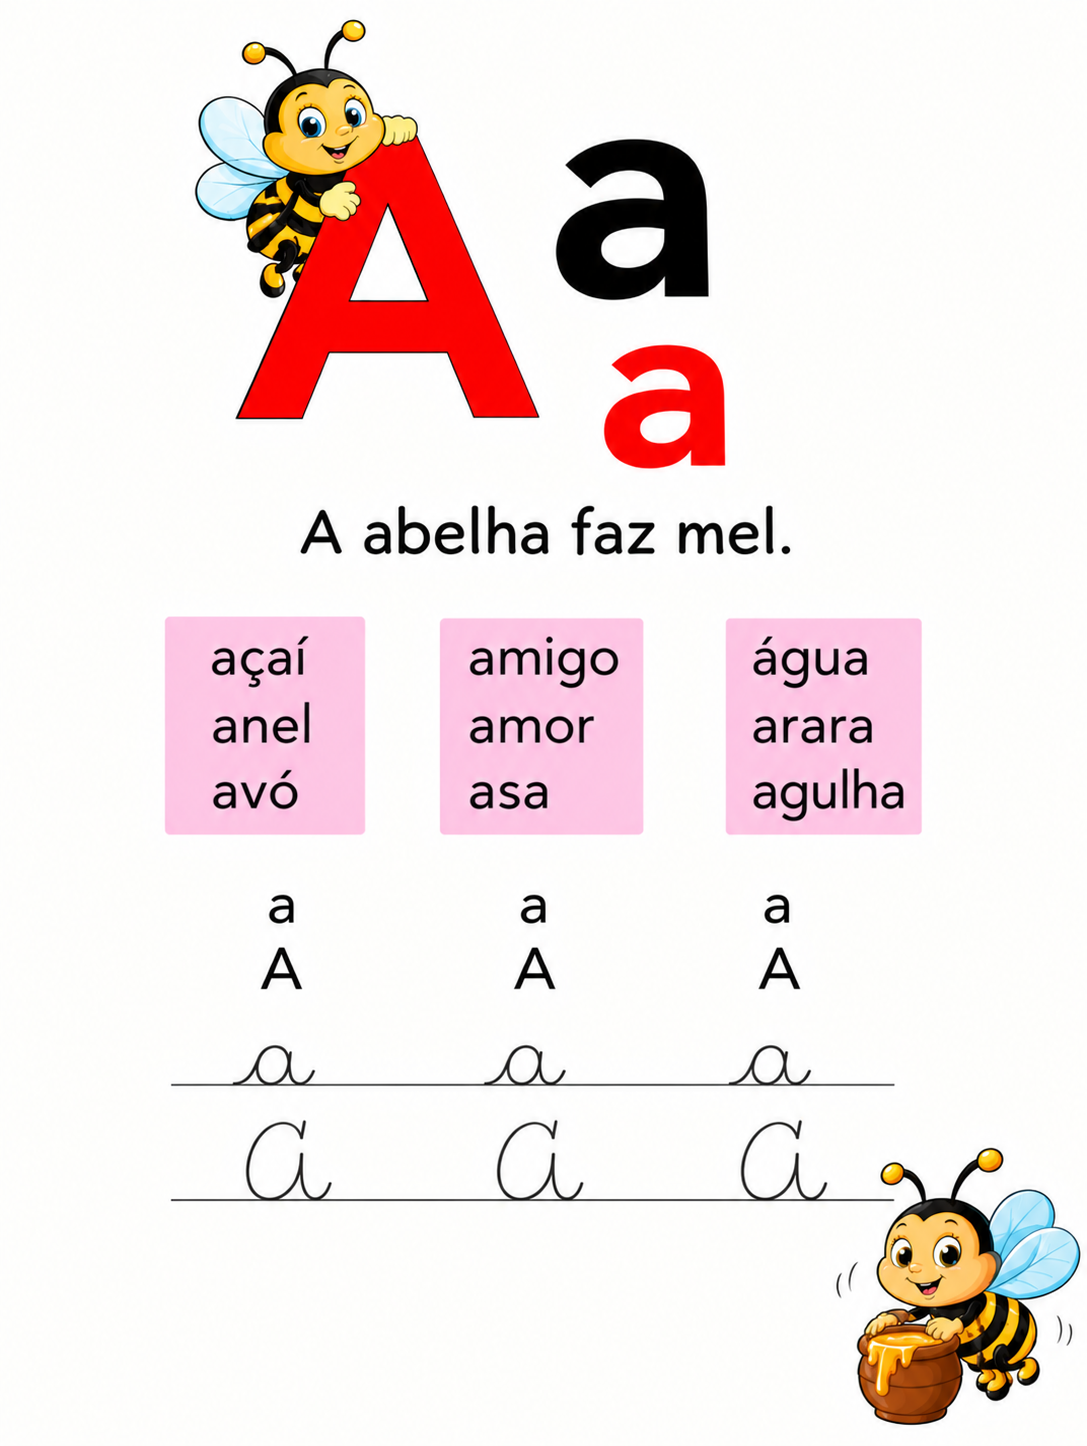
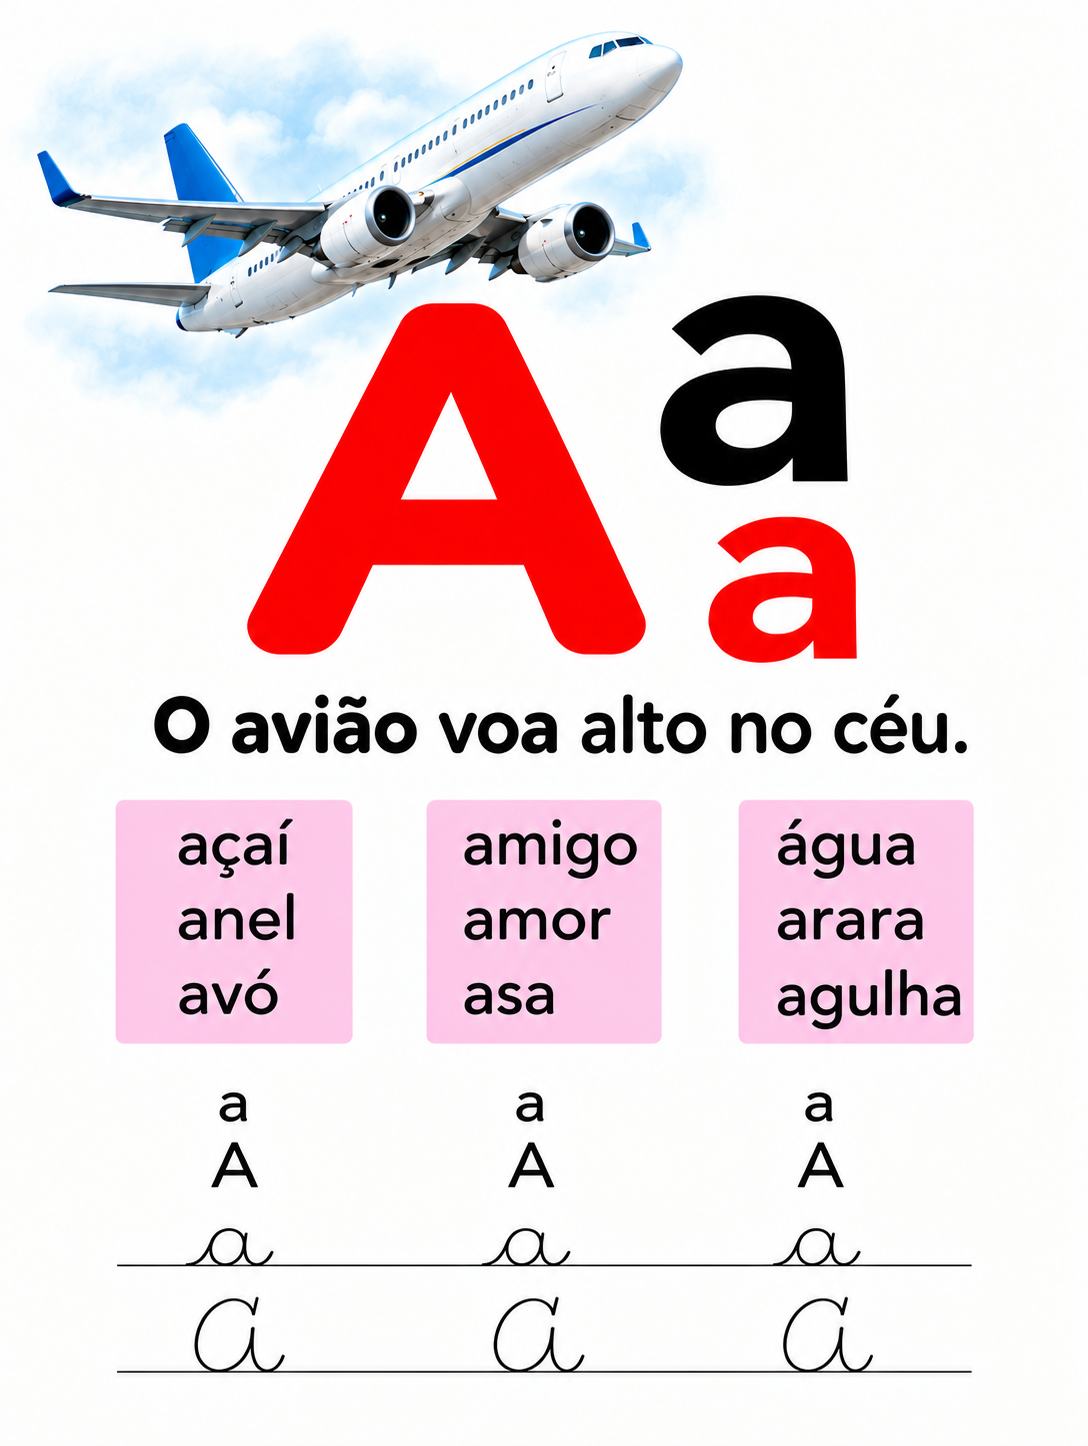
checkpoint: atualizacao de imagens das letras e palavras antes das correcoes

diff --git a/palavras.js b/palavras.js
@@ -78,7 +78,7 @@ var catalogData = {
                     "word": "BOLA",
                     "syllables": "BO - LA",
                     "desc": "Objeto redondo muito usado em brincadeiras de criança e esportes queridos, como o futebol de domingo.",
-                    "img": "capaletras/Cartão educativo B de Bola.png",
+                    "img": "imagenspalavras/bola.jpg",
                     "icon": "fa-futbol"
                 },
                 {
@@ -143,7 +143,7 @@ var catalogData = {
                     "word": "CASA",
                     "syllables": "CA - SA",
                     "desc": "Nosso lar acolhedor, onde descansamos com tranquilidade e vivemos momentos felizes com quem amamos.",
-                    "img": "capaletras/Cartaz educativo da letra C com casa.png",
+                    "img": "imagenspalavras/casa.jpg",
                     "icon": "fa-house"
                 },
                 {
@@ -208,7 +208,7 @@ var catalogData = {
                     "word": "DADO",
                     "syllables": "DA - DO",
                     "desc": "Pequeno cubo com pontinhos marcados de um a seis, usado para jogar e se divertir com jogos de tabuleiro.",
-                    "img": "capaletras/Cartão Educativo da Letra D.png",
+                    "img": "imagenspalavras/dado.jpg",
                     "icon": "fa-dice"
                 },
                 {
@@ -287,7 +287,7 @@ var catalogData = {
                     "word": "ESPELHO",
                     "syllables": "ES - PE - LHO",
                     "desc": "Vidro prateado brilhante que reflete a nossa imagem para nos arrumarmos e vermos como estamos bem.",
-                    "img": "imagenscartilha/e.png",
+                    "img": "imagenspalavras/espelho.jpg",
                     "icon": "fa-square"
                 },
                 {
@@ -663,7 +663,7 @@ var catalogData = {
                     "word": "KIWI",
                     "syllables": "KI - WI",
                     "desc": "Frutinha arredondada de casca aveludada marrom e polpa verde com sementinhas pretas, rica em vitamina C.",
-                    "img": "capaletras/Cartaz Infantil da Letra K com Kiwi.png",
+                    "img": "imagenspalavras/kiwi.jpg",
                     "icon": "fa-lemon"
                 },
                 {
@@ -749,7 +749,7 @@ var catalogData = {
                     "word": "LUA",
                     "syllables": "LU - A",
                     "desc": "Lindo astro prateado que surge no céu à noite, iluminando a terra com suas fases crescente e cheia.",
-                    "img": "capaletras/Cartaz Infantil da Letra L e da Lua.png",
+                    "img": "imagenspalavras/lua.jpg",
                     "icon": "fa-moon"
                 }
             ],
@@ -858,7 +858,7 @@ var catalogData = {
                     "word": "NAVIO",
                     "syllables": "NA - VI - O",
                     "desc": "Embarcação gigante que viaja pelos oceanos levando cargas pesadas e milhares de viajantes pelo mar.",
-                    "img": "capaletras/Cartão Educativo da Letra N com Navio.png",
+                    "img": "imagenspalavras/navio.jpg",
                     "icon": "fa-ship"
                 },
                 {
@@ -923,7 +923,7 @@ var catalogData = {
                     "word": "OVO",
                     "syllables": "O - VO",
                     "desc": "Alimento simples, versátil e nutritivo posto pela galinha, com gema dourada para fritar, cozer ou pôr em receitas.",
-                    "img": "capaletras/Cartaz Educativo da Letra O com Ovo.png",
+                    "img": "imagenspalavras/ovo.jpeg",
                     "icon": "fa-egg"
                 },
                 {
@@ -1104,7 +1104,7 @@ var catalogData = {
                     "word": "QUINDIM",
                     "syllables": "QUIN - DIM",
                     "desc": "Doce dourado e reluzente feito com gemas de ovos, coco ralado e açúcar, macio e tradicional nas confeitarias.",
-                    "img": "capaletras/Cartão do Q de Queijo.png",
+                    "img": "imagenspalavras/quindin.jpeg",
                     "icon": "fa-cake-candles"
                 }
             ]
@@ -1269,7 +1269,7 @@ var catalogData = {
                     "word": "TOMATE",
                     "syllables": "TO - MA - TE",
                     "desc": "Fruto vermelho e suculento da horta, base saborosa para molhos caseiros e saladas frescas com azeite.",
-                    "img": "capaletras/Cartaz Infantil da Letra T com Tomate.png",
+                    "img": "imagenspalavras/tomate.jpg",
                     "icon": "fa-apple-whole"
                 }
             ],
@@ -1313,7 +1313,7 @@ var catalogData = {
                     "word": "UVA",
                     "syllables": "U - VA",
                     "desc": "Frutinha redonda e doce que nasce em cachos caprichados, maravilhosa para comer pura ou em sucos naturais.",
-                    "img": "capaletras/Cartaz Educativo da Uva.png",
+                    "img": "imagenspalavras/uva.jpg",
                     "icon": "fa-wine-glass"
                 },
                 {
@@ -1408,7 +1408,7 @@ var catalogData = {
                     "word": "VACA",
                     "syllables": "VA - CA",
                     "desc": "Animal dócil e generoso da fazenda que pasta calmamente no capim e nos presenteia com leite nutritivo todo dia.",
-                    "img": "capaletras/Cartaz educativo da letra V com vaca.png",
+                    "img": "imagenspalavras/vaca.jpg",
                     "icon": "fa-cow"
                 },
                 {
@@ -1529,7 +1529,7 @@ var catalogData = {
                     "word": "XADREZ",
                     "syllables": "XA - DREZ",
                     "desc": "Jogo clássico de tabuleiro e estratégia com peças de reis, rainhas e cavalos que estimula a mente.",
-                    "img": "imagenscartilha/x.png",
+                    "img": "imagenspalavras/xadrez.jpg",
                     "icon": "fa-chess-board"
                 }
             ],
@@ -1689,7 +1689,7 @@ var catalogData = {
                     "word": "ZELADOR",
                     "syllables": "ZE - LA - DOR",
                     "desc": "Profissional dedicado que cuida com muito carinho da limpeza, manutenção e segurança dos prédios.",
-                    "img": "imagenscartilha/z.png",
+                    "img": "imagenspalavras/zelador.jpg",
                     "icon": "fa-user-tie"
                 }
             ]

diff --git a/letras.js b/letras.js
@@ -98,7 +98,7 @@ var alphabetData = {
         phrase: 'O kiwi é gostoso.',
         words: ['kiwi', 'kart', 'ketchup', 'karatê'],
         capaSrc: 'capaletras/Cartaz Infantil da Letra K com Kiwi.png',
-        imageSrc: 'capaletras/Cartaz Infantil da Letra K com Kiwi.png', hasCustomImage: true,
+        imageSrc: 'imagenscartilha/k.png', hasCustomImage: true,
         speech: 'Letra K. K de Kiwi. O kiwi é gostoso.'
     },
     L: {
@@ -201,7 +201,7 @@ var alphabetData = {
         upper: 'X', lower: 'x', word: 'Xadrez', simpleName: 'X de Xadrez', type: 'consonant', icon: 'fa-chess-board',
         phrase: 'O xadrez é divertido.',
         words: ['xadrez', 'xícara', 'xilofone', 'xarope', 'xampu', 'xbox', 'xale', 'xerife', 'xenofobia'],
-        capaSrc: 'imagenscartilha/x.png',
+        capaSrc: 'capaletras/xadrez.png',
         imageSrc: 'imagenscartilha/x.png', hasCustomImage: true,
         speech: 'Letra X. X de Xadrez. O xadrez é divertido.'
     },
@@ -209,8 +209,8 @@ var alphabetData = {
         upper: 'Y', lower: 'y', word: 'Yoga', simpleName: 'Y de Yoga', type: 'consonant', icon: 'fa-heart',
         phrase: 'O yoga traz paz e saúde.',
         words: ['yoga', 'yakisoba', 'youtube'],
-        capaSrc: '',
-        imageSrc: '', hasCustomImage: false,
+        capaSrc: 'capaletras/yoga.png',
+        imageSrc: 'imagenscartilha/y.png', hasCustomImage: true,
         speech: 'Letra Y. Y de Yoga. O yoga traz paz e saúde.'
     },
     Z: {

diff --git a/consoantes.js b/consoantes.js
@@ -161,7 +161,7 @@ var consonantData = {
         upper: 'X', lower: 'x', word: 'Xadrez', icon: 'fa-chess-board',
         phrase: 'O xadrez é divertido.',
         words: ['xadrez', 'xícara', 'xilofone', 'xarope', 'xampu', 'xbox', 'xale', 'xerife', 'xenofobia'],
-        capaSrc: 'imagenscartilha/x.png',
+        capaSrc: 'capaletras/xadrez.png',
         imageSrc: 'imagenscartilha/x.png', hasCustomImage: true,
         speech: 'Letra X. X de Xadrez. O xadrez é divertido.'
     },
@@ -169,8 +169,8 @@ var consonantData = {
         upper: 'Y', lower: 'y', word: 'Yoga', icon: 'fa-heart',
         phrase: 'O yoga traz paz e saúde.',
         words: ['yoga', 'yakisoba', 'youtube'],
-        capaSrc: '',
-        imageSrc: '', hasCustomImage: false,
+        capaSrc: 'capaletras/yoga.png',
+        imageSrc: 'imagenscartilha/y.png', hasCustomImage: true,
         speech: 'Letra Y. Y de Yoga. O yoga traz paz e saúde.'
     },
     Z: {
